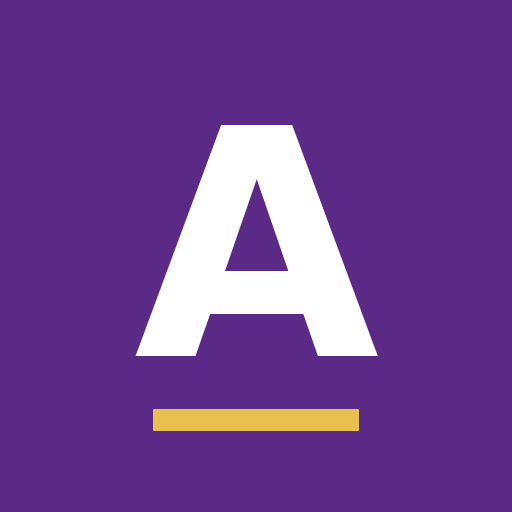
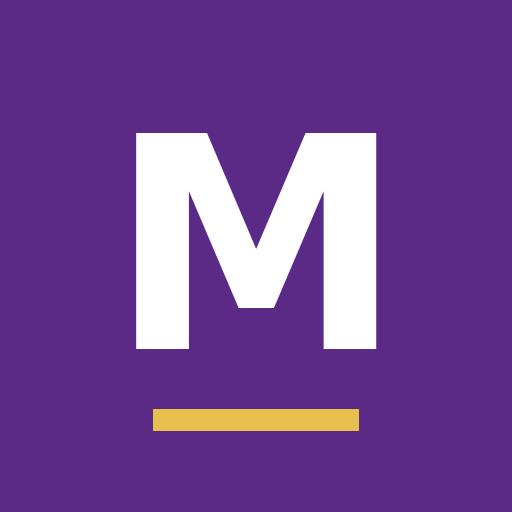
Rename to Mathuba Careers

Changed region(s): [[0.25, 0.2188, 0.75, 0.7188]]

diff --git a/index.html b/index.html
@@ -9,7 +9,7 @@
 <link rel="icon" href="icons/icon-192.png">
 <link rel="apple-touch-icon" href="icons/icon-192.png">
 <script>try{if(localStorage.getItem("amathuba-theme")==="dark")document.documentElement.setAttribute("data-theme","dark")}catch(e){}</script>
-<title>Amathuba: CV Builder & Opportunities</title>
+<title>Mathuba Careers: CV Builder & Opportunities</title>
 <style>
 :root{
   --paper:#ffffff; --ground:#ffffff; --ink:#211a28; --soft:#5c5266; --line:#e0d8e7;
@@ -189,7 +189,7 @@ input.flagged,textarea.flagged{border-color:var(--bad);box-shadow:0 0 0 2px rgba
 <div class="wrap">
 <header>
   <div class="topbar">
-  <p class="brand" style="margin:0">Amathuba <span style="font-weight:400;color:var(--soft)">by Onele Foundation</span></p>
+  <p class="brand" style="margin:0">Mathuba Careers</p>
   <button class="theme-btn" type="button" id="themeBtn" aria-pressed="false"></button>
   </div>
   <h1>Build a CV that gets read, then find where to apply.</h1>
@@ -213,7 +213,7 @@ input.flagged,textarea.flagged{border-color:var(--bad);box-shadow:0 0 0 2px rgba
 
   <div class="opp" id="importBox">
     <h4>Already have a CV?</h4>
-    <p>Upload it and Amathuba will read it, fix common spelling mistakes, sort it into ATS-friendly headings and fill in this form for you to check.</p>
+    <p>Upload it and Mathuba Careers will read it, fix common spelling mistakes, sort it into ATS-friendly headings and fill in this form for you to check.</p>
     <div class="app-actions">
       <button class="btn small" type="button" id="cvPick">Upload my CV</button>
       <input type="file" id="cvFile" accept=".pdf,.docx,.txt,application/pdf,application/vnd.openxmlformats-officedocument.wordprocessingml.document,text/plain,application/octet-stream" hidden>
@@ -402,7 +402,7 @@ input.flagged,textarea.flagged{border-color:var(--bad);box-shadow:0 0 0 2px rgba
   <div id="trList"></div>
 
   <h3 style="margin-top:24px">Documents ready</h3>
-  <p class="hint">Tick what you have, so you’re ready when an employer asks. Amathuba doesn’t store the documents, only your ticks and dates.</p>
+  <p class="hint">Tick what you have, so you’re ready when an employer asks. Mathuba Careers doesn’t store the documents, only your ticks and dates.</p>
   <div id="docList"></div>
   <p class="hint" id="docTip"></p>
 </section>
@@ -506,7 +506,7 @@ input.flagged,textarea.flagged{border-color:var(--bad);box-shadow:0 0 0 2px rgba
 <!-- STEP 7 -->
 <section id="scam" role="tabpanel" hidden>
   <h2>Scam checker</h2>
-  <p class="hint">Got a job offer by WhatsApp, SMS, email or Facebook? Paste it here and Amathuba will look for the warning signs of a job scam. Nothing you paste leaves this phone.</p>
+  <p class="hint">Got a job offer by WhatsApp, SMS, email or Facebook? Paste it here and Mathuba Careers will look for the warning signs of a job scam. Nothing you paste leaves this phone.</p>
   <label for="scamText">Paste the job advert or message</label>
   <textarea id="scamText" style="min-height:160px" placeholder="Paste the full message, including any email address, phone number or link"></textarea>
   <p class="err" id="scamErr" role="alert"></p>
@@ -516,7 +516,7 @@ input.flagged,textarea.flagged{border-color:var(--bad);box-shadow:0 0 0 2px rgba
     <p style="margin:0">Real employers and government never ask you to pay for a job, training, uniforms or “admin”. Never send your ID, bank details, PIN or a one-time PIN (OTP) before you have checked the job is real. Look the company up yourself and call its official number, not the number in the message. Government jobs are advertised on gov.za websites and in the Public Service Vacancy Circular.</p></div>
 </section>
 <footer style="border-top:1px solid var(--line);margin-top:30px;padding-top:16px;color:var(--soft);font-size:.88rem">
-  <p style="margin:0 0 4px">Amathuba was created by Onele Nongindzi for Onele Foundation.</p>
+  <p style="margin:0 0 4px">Mathuba Careers was created by Onele Nongindzi for Onele Foundation.</p>
   <p style="margin:0 0 4px">Your information is saved only on this device. It is never sent to Onele Foundation or anyone else.</p>
   <p style="margin:0">© 2026 Onele Nongindzi. All rights reserved.</p>
 </footer>
@@ -1465,7 +1465,7 @@ function icsFor(title,dateStr,desc,alarms){
   const d=toD(dateStr),n=new Date(d);n.setDate(n.getDate()+1);
   const stamp=new Date().toISOString().replace(/[-:]/g,"").replace(/\.\d+Z$/,"Z");
   const escI=s=>String(s||"").replace(/\\/g,"\\\\").replace(/[,;]/g,m=>"\\"+m).replace(/\n/g,"\\n");
-  return ["BEGIN:VCALENDAR","VERSION:2.0","PRODID:-//Onele Foundation//Amathuba//EN","CALSCALE:GREGORIAN","BEGIN:VEVENT",
+  return ["BEGIN:VCALENDAR","VERSION:2.0","PRODID:-//Onele Foundation//Mathuba Careers//EN","CALSCALE:GREGORIAN","BEGIN:VEVENT",
     `UID:${Date.now().toString(36)}-${Math.random().toString(36).slice(2)}@amathuba`,`DTSTAMP:${stamp}`,
     `DTSTART;VALUE=DATE:${ymd(d)}`,`DTEND;VALUE=DATE:${ymd(n)}`,`SUMMARY:${escI(title)}`,`DESCRIPTION:${escI(desc)}`,
     ...alarms.flatMap(t=>["BEGIN:VALARM","ACTION:DISPLAY",`DESCRIPTION:${escI(title)}`,`TRIGGER:${t}`,"END:VALARM"]),
@@ -1475,7 +1475,7 @@ function gcal(title,dateStr,desc){const d=toD(dateStr),n=new Date(d);n.setDate(n
 function calMenu(a,btn){
   const card=btn.closest(".app");const old=card.querySelector(".calbox");if(old){old.remove();return}
   const name=[a.job,a.org].filter(Boolean).join(" at ")||"Job application";
-  const desc=[a.ref?"Reference: "+a.ref:"",a.link||"","Added by Amathuba"].filter(Boolean).join("\n");
+  const desc=[a.ref?"Reference: "+a.ref:"",a.link||"","Added by Mathuba Careers"].filter(Boolean).join("\n");
   const items=[];
   if(a.close&&days(a.close)>=0)items.push({k:"close",t:`Closing date: ${name}`,d:a.close,al:["-P2D","-PT12H"],label:`Closing date (${fmt(a.close)})`});
   if(a.interview&&days(a.interview)>=0)items.push({k:"iv",t:`Interview: ${name}`,d:a.interview,al:["-P1D","-PT14H"],label:`Interview (${fmt(a.interview)})`});

diff --git a/admin.html b/admin.html
@@ -4,7 +4,7 @@
 <meta charset="utf-8">
 <meta name="viewport" content="width=device-width, initial-scale=1, viewport-fit=cover">
 <meta name="robots" content="noindex">
-<title>Amathuba: post a local opportunity</title>
+<title>Mathuba Careers: post a local opportunity</title>
 <style>
 :root{--paper:#fff;--ink:#211a28;--soft:#5c5266;--line:#e0d8e7;--brand:#5b2a86;--pale:#ece4f2;--gold-pale:#fbf0cf;--bad:#b3261e;--good:#2e7d4f}
 *{box-sizing:border-box}
@@ -37,7 +37,7 @@ button:focus-visible,input:focus-visible,select:focus-visible,textarea:focus-vis
 <body>
 <div class="wrap">
   <h1>Post a local opportunity</h1>
-  <p class="hint">For Onele Foundation volunteers. Fill in the form, copy the updated list, and paste it into GitHub. The opportunity then appears in Amathuba under “Opportunities posted by Onele Foundation”, and job seekers can filter by province.</p>
+  <p class="hint">For Onele Foundation volunteers. Fill in the form, copy the updated list, and paste it into GitHub. The opportunity then appears in Mathuba Careers under “Opportunities posted by Onele Foundation”, and job seekers can filter by province.</p>
   <div class="note"><strong>Only post opportunities you have checked</strong> with the employer, municipality or official notice. Never post anything that asks applicants for money.</div>
 
   <fieldset><legend>The opportunity</legend>

diff --git a/sw.js b/sw.js
@@ -1,6 +1,6 @@
-// Amathuba offline support: caches the app so it opens without data after the first visit.
+// Mathuba Careers offline support: caches the app so it opens without data after the first visit.
 // Change VERSION whenever you update any file, so phones fetch the new version.
-const VERSION = "amathuba-v27";
+const VERSION = "amathuba-v28";
 const FILES = ["./", "index.html", "js/opportunities.js", "js/towns.js", "data/local-opportunities.json", "vendor/jspdf.umd.min.js", "manifest.webmanifest", "icons/icon-192.png", "icons/icon-512.png"];
 self.addEventListener("install", e => { e.waitUntil(caches.open(VERSION).then(c => c.addAll(FILES))); self.skipWaiting(); });
 self.addEventListener("activate", e => {

diff --git a/js/opportunities.js b/js/opportunities.js
@@ -1,5 +1,5 @@
 /*
-  Amathuba data file. Edit this file to add, remove or update opportunities.
+  Mathuba Careers data file. Edit this file to add, remove or update opportunities.
   Copyright (c) 2026 Onele Nongindzi. All rights reserved.
 
   EDUCATION LEVELS: 0 Below Grade 9, 1 Grade 9-11, 2 Matric, 3 Certificate/N-cert/NC(V), 4 Diploma, 5 Degree, 6 Honours or higher

diff --git a/README.md b/README.md
@@ -1,4 +1,4 @@
-# Amathuba: CV Builder & Opportunities
+# Mathuba Careers: CV Builder & Opportunities
 
 A free CV builder and opportunity finder by Onele Foundation. No sign-up, no subscription, works on phones and offline after the first visit. All personal information stays on the user's own device (nothing is sent to a server), which keeps the project simple under POPIA.
 
